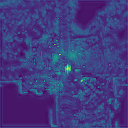
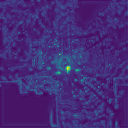
abcde

diff --git a/networks/DVT.py b/networks/DVT.py
@@ -65,88 +65,6 @@ class RV2BEV(nn.Module):
         return bev
 
 
-# class BEV2RV(nn.Module):
-#     def __init__(
-#         self,
-#         bev_size=(512, 512),
-#         rv_size=(64, 2048),
-#         z_range=(-4, 2),
-#         z_bins=30,
-#         z_low=-1.73,
-#         fov_phi=(math.radians(-180), math.radians(180)),
-#         fov_theta=(math.radians(-25), math.radians(3)),
-#         range_xy=(-50, 50, -50, 50),
-#     ):
-#         super().__init__()
-#         self.H_b, self.W_b = bev_size
-#         self.H_r, self.W_r = rv_size
-#         self.z_min, self.z_max, self.z_bins, self.z_low = *z_range, z_bins, z_low
-#         self.phi_min, self.phi_max = fov_phi
-#         self.theta_min, self.theta_max = fov_theta
-#         self.xmin, self.xmax, self.ymin, self.ymax = range_xy
-
-#         y = torch.linspace(self.ymax, self.ymin, self.H_b)
-#         x = torch.linspace(self.xmin, self.xmax, self.W_b)
-#         yg, xg = torch.meshgrid(y, x)
-#         rho = torch.sqrt(xg**2 + yg**2).flatten()
-#         phi = torch.atan2(yg, xg).flatten()
-
-#         theta_low = torch.atan2(torch.full_like(rho, self.z_low), rho)
-#         row_low = (
-#             ((self.theta_max - theta_low) / (self.theta_max - self.theta_min) * (self.H_r - 1))
-#             .round()
-#             .clamp(0, self.H_r - 1)
-#             .long()
-#         )
-#         col = ((phi - self.phi_min) / (self.phi_max - self.phi_min) * (self.W_r - 1)).round().clamp(0, self.W_r - 1).long()
-
-#         self.register_buffer("rho", rho)
-#         self.register_buffer("row_low", row_low)
-#         self.register_buffer("col_flat", col)
-
-#     @torch.no_grad()
-#     def forward(self, bev_feat, bev_z_bin, chunk=65536):
-#         B, C, _, _ = bev_feat.shape
-#         device, dtype = bev_feat.device, bev_feat.dtype
-#         rho, row_low, col_flat = (t.to(device) for t in (self.rho, self.row_low, self.col_flat))
-#         N = rho.numel()
-#         dz = (self.z_max - self.z_min) / self.z_bins
-#         z_hint = bev_z_bin.squeeze(1).float().to(device) * dz + (self.z_min + dz / 2)
-
-#         init = -float("inf") if torch.is_floating_point(bev_feat) else torch.iinfo(dtype).min
-#         rv = torch.full((B, C, self.H_r, self.W_r), init, dtype=dtype, device=device)
-
-#         for b in range(B):
-#             bev_flat = bev_feat[b].view(C, N).contiguous()
-#             theta_hi = torch.atan2(z_hint[b].flatten(), rho)
-#             row_hi = (
-#                 ((self.theta_max - theta_hi) / (self.theta_max - self.theta_min) * (self.H_r - 1))
-#                 .round()
-#                 .clamp(0, self.H_r - 1)
-#                 .long()
-#             )
-#             row_s, row_e = torch.min(row_low, row_hi), torch.max(row_low, row_hi)
-
-#             rv_flat = rv[b].view(C, -1)
-
-#             for r in range(self.H_r):
-#                 within = (row_s <= r) & (r <= row_e)
-#                 if not within.any():
-#                     continue
-#                 idx = torch.nonzero(within, as_tuple=False).squeeze(1)
-
-#                 tgt = col_flat[idx] + r * self.W_r
-#                 src = bev_flat[:, idx]
-
-#                 rv_flat[:] = scatter(src, tgt.unsqueeze(0).expand(C, -1), dim=1, out=rv_flat, reduce="max")
-
-#         rv.masked_fill_(rv == init, 0)
-#         return rv
-
-
-"""z 하나 남는 거 약함"""
-
-
 class BEV2RV(nn.Module):
     """
     LiDAR 센서 원점 기준 BEV → RV 변환
@@ -236,12 +154,6 @@ class BEV2RV(nn.Module):
 
             rv_flat = scatter(src, idx_flat.expand(C, -1), dim=1, dim_size=self.H_r * self.W_r, reduce="max")  # or "mean"
             rv[b] = rv_flat.view(C, self.H_r, self.W_r)
-
-        ################여기 아래 추가###################
-        # ───── 5) 전체 텐서 dilation ─────
-        dilate_iter = 3  # 필요 시 조정
-        for _ in range(dilate_iter):
-            rv = F.max_pool2d(rv, kernel_size=3, stride=1, padding=1)
 
         return rv
 

diff --git a/SwiftMOS_test_speed.py b/SwiftMOS_test_speed.py
@@ -32,17 +32,29 @@ def main(args, config):
 
     # define model
     model = MainNetwork.MOSNet(pModel)
-    model_epoch = 60
-    FRAME = 42
-    pretrain_model = os.path.join(model_prefix, "{}-checkpoint.pth".format(model_epoch))
-    print("pretrain_model:", pretrain_model)
-    model.load_state_dict(torch.load(pretrain_model, map_location="cpu")["model_state_dict"])
+    FRAME = 42  # looks good to visualize
 
+    # load pretrained model
+    use_pretrained_model = None
+    while True:
+        use_pretrained_model = input("use_pretrained_model? (y/n)").capitalize()
+        if use_pretrained_model == "Y":
+            break
+        elif use_pretrained_model == "N":
+            break
+        else:
+            print("Invalid input. Please enter 'y' or 'n'.")
+            continue
+
+    if use_pretrained_model == "Y":
+        model_epoch = 50
+        pretrain_model = os.path.join(model_prefix, "{}-checkpoint.pth".format(model_epoch))
+        print("pretrain_model:", pretrain_model)
+        model.load_state_dict(torch.load(pretrain_model, map_location="cpu")["model_state_dict"])
+
+    # print total trainable parameters
     total_params = sum(p.numel() for p in model.parameters() if p.requires_grad)
     print(f"Total trainable parameters: {total_params}")
-
-    model.eval()
-    model.cuda()
 
     (
         xyzi,
@@ -59,14 +71,13 @@ def main(args, config):
     descartes_coord = descartes_coord.cuda().unsqueeze(0)
     sphere_coord = sphere_coord.cuda().unsqueeze(0)
 
-    print(xyzi.shape, descartes_coord.shape, sphere_coord.shape)
-
-    # label_2D : [256, 256, 1] -> viridis 컬러맵으로 저장
-    arr = label_2D.cpu().numpy().squeeze()  # shape: [256, 256]
+    arr = label_2D.cpu().numpy().squeeze()
     if not os.path.exists("images/features"):
         os.makedirs("images/features")
     plt.imsave("images/features/label_2D.png", arr, cmap="viridis")
 
+    model.eval()
+    model.cuda()
     pred_cls, temporal_res = model.infer(xyzi, descartes_coord, sphere_coord, None)
     time_cost = []
     with torch.no_grad():

diff --git a/SwiftMOS_evaluate.py b/SwiftMOS_evaluate.py
@@ -58,9 +58,7 @@ def val(epoch, model, val_loader, category_list, save_path, writer, save_label=T
             pad_length_list,
             meta_list_raw,
         ) in tqdm.tqdm(val_loader):
-            pred_cls, temporal_res = model.infer(
-                xyzi.cuda(), descartes_coord.cuda(), sphere_coord.cuda(), temporal_res
-            )
+            pred_cls, temporal_res = model.infer(xyzi.cuda(), descartes_coord.cuda(), sphere_coord.cuda(), temporal_res)
             pred_cls = F.softmax(pred_cls[0].squeeze(-1), dim=0).T.contiguous()  # 160000, 3
             label = label[0, :, 0].contiguous()  # 160000,
             criterion_cate.addBatch(label.cpu(), pred_cls.cpu())
@@ -114,9 +112,7 @@ def test(model, test_loader, save_path):
             pad_length_list,
             meta_list_raw,
         ) in tqdm.tqdm(test_loader):
-            pred_cls, temporal_res = model.infer(
-                xyzi.cuda(), descartes_coord.cuda(), sphere_coord.cuda(), temporal_res
-            )
+            pred_cls, temporal_res = model.infer(xyzi.cuda(), descartes_coord.cuda(), sphere_coord.cuda(), temporal_res)
             pred_cls = F.softmax(pred_cls[0].squeeze(-1), dim=0).T.contiguous()  # 160000, 3
 
             valid_mask = valid_mask_list[0].reshape(-1)
@@ -131,9 +127,7 @@ def test(model, test_loader, save_path):
 
             seq_id, frame_id = meta_list_raw[0][-2][0], meta_list_raw[0][-1][0]
 
-            prediction_folder_path = os.path.join(
-                save_path, "config_TripleMOS", "results", "sequences", seq_id, "predictions"
-            )
+            prediction_folder_path = os.path.join(save_path, "config_TripleMOS", "results", "sequences", seq_id, "predictions")
 
             if not os.path.exists(prediction_folder_path):
                 os.makedirs(prediction_folder_path)
